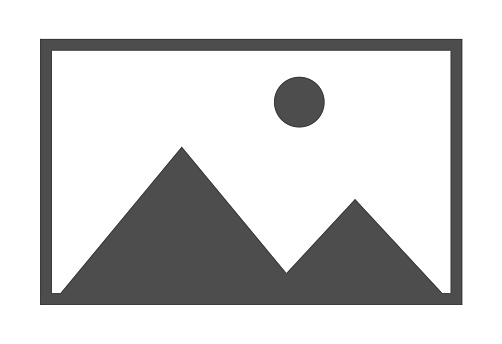
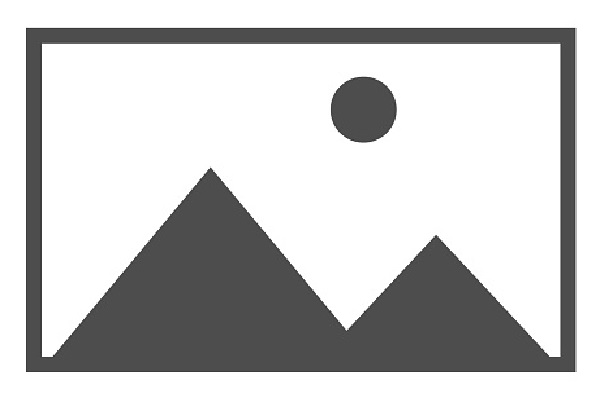
Updated Content section
Updated the list format to be tiles. fixed image sizes and made details only show on hover over the tile.

diff --git a/listMaker/myLists.js b/listMaker/myLists.js
@@ -119,6 +119,7 @@ function displayLists(list, element, listList) {
         //Event Listener for delete button.
           button.addEventListener("click",function() {
           listList.deleteList(l.id);
+          listList.loadActiveList(listList.findCurrentList().list, 1)
         });
         //Event Listener for list selection
         text.addEventListener("click",function() {
@@ -669,7 +670,7 @@ export default class myLists {
             flex1.className = "flex1"
             const addButton = document.createElement('button')
             addButton.className = "addGameButton"
-            addButton.innerHTML = "+";
+            addButton.innerHTML = "Add to List";
             addButton.id = "addToListButton"
             addButton.dataset.id = game.id
             flex1.appendChild(addButton)
@@ -693,10 +694,14 @@ export default class myLists {
             name.innerHTML = `${game.name}`
             name.className = "gameName"
             flex3.appendChild(name)
-
+            const hidden = document.createElement('div')
+            hidden.className = "listDetailsHidden"
+            const detailsName = document.createElement('p')
+            detailsName.innerHTML = `${game.name}`
+            detailsName.className = "detailsName"
+            hidden.appendChild(detailsName)
             const ul = document.createElement('ul')
-            ul.className = "listDetailsHidden"
-
+            hidden.appendChild(ul)
         
             let esrbRating
             if (game.esrb_rating === null) {
@@ -724,30 +729,25 @@ export default class myLists {
             `
             
 
-            flex3.appendChild(ul)
-            details.appendChild(flex1)
-            details.appendChild(flex3)
-            details.appendChild(flex2)
-            content.appendChild(details)
-
+            flex3.appendChild(hidden)
             
 
+            details.appendChild(flex2)
+            details.appendChild(flex1)
+            details.appendChild(flex3)
+       
+            content.appendChild(details)
+           
+
             //event listeners
-            background.addEventListener("click",function() {
-                if (ul.className === "listDetailsHidden") {
-                    ul.className = "listDetails"
-                }
-                else {
-                    ul.className = "listDetailsHidden"
-                }
+            background.addEventListener("mouseover",function() {
+                    hidden.className = "listDetails"
+                    name.className = "gameNameHidden"
             });
-            name.addEventListener("click",function() {
-                if (ul.className === "listDetailsHidden") {
-                    ul.className = "listDetails"
-                }
-                else {
-                    ul.className = "listDetailsHidden"
-                }
+
+            background.addEventListener("mouseleave",function() {
+                hidden.className = "listDetailsHidden"
+                name.className = "gameName"
             });
 
             //active list display
@@ -762,6 +762,12 @@ export default class myLists {
             document.getElementById('addAList').addEventListener("click",function() {
                 refreshGameList()
             });
-        });        
+        });   
+        const gridBottom = document.createElement('div')
+        gridBottom.className = "gridBottom"
+        content.appendChild(gridBottom)     
+        const gridBottom2 = document.createElement('div')
+        gridBottom2.className = "gridBottom"
+        content.appendChild(gridBottom2)   
     }
 }

diff --git a/listMaker/styles.css b/listMaker/styles.css
@@ -57,6 +57,8 @@ h2 {
     display: flex;
     flex-direction: row;
 }
+
+
 .listNameInput {
     border-radius: 10px;
     border: none;
@@ -185,58 +187,94 @@ button:hover {
 }
 
 .content {
+    display: grid;
+    grid-template-columns: repeat(auto-fit, minmax(320px, 1fr));
+    grid-gap: 1rem;
+    list-style-type: none;
     padding-bottom: 10px;
     overflow:auto;
-    display: block;
     flex: 8;
+    height: 110%;
+    margin-bottom: 20%;
+}
+
+.gridBottom {
+    position: relative;
+    height: 300px;
+    width: 100%;
 }
 
 .gameItem {
     background:rgb(40, 40, 40);
-    width: 97%;
     list-style-type: none;
-    display: flex;
-    flex-direction: row;
-    margin: 10px;
+    margin: 5px;
     border-radius: 5px;
 }
 
 .gameItem:hover {
-    background:rgb(55, 55, 55);
+    background:rgb(70, 70, 70);
 }
 
 .flex1 {
-    flex: 1;
+    position: relative;
+    height: 10%;
+}
+
+.flex2 {
+    position: relative;
+    overflow: hidden;
 }
 
 .flex3 {
-    flex: 10;
+    position: relative;
+
 }
-
-
-
-
 
 .thumbnail {
     padding: 5px;
     border-radius: 10px;
     vertical-align: top;
-    margin: 5px;
-    width: 140px;
-    height: 90px;
+    height: auto;
+    width: 100%;
+    object-fit:contain;
+    overflow: hidden;
 }
 
 .gameName {
-
-    font-size: 2.5em;
-
+    font-size:large;
+    text-align: center;
     border-spacing: 5em;
     padding: 5px;;
 }
 
-.listDetails {
-    margin-left: 5%;
+.gameNameHidden {
+    display: none;
+}
+
+.detailsName {
+    font-size:larger;
+    text-align: center;
     padding: 5px;
+    border-bottom-left-radius: 5px;
+    border-bottom-right-radius: 5px;
+}
+
+.listDetails {
+    width: 100%;
+    padding-left: 5px;
+    padding-right: 5px;
+    padding-bottom: 5px;
+    display: inherit;
+    z-index: 2;
+    position: absolute;
+    background:rgb(70,70, 70);
+    list-style-type: none;
+    padding: 10px;
+    border-radius: 5px;
+}
+
+.listDetails ul {
+    list-style-type: none;
 }
 
 .listDetailsHidden {
@@ -263,31 +301,28 @@ button:hover {
 .error {
     background: red;
     position: fixed;
-    height: 57px;
+    height: 50px;
     width: 20%;
     right: 0;
     top: 0;
     padding: 10px;
     z-index: 2;
-    flex: 1;
     border-radius: 5px;
     margin: 5px;
 }
 
 .inputError {
     background: red;
-    border-top: 2px solid black;
-    border-left: 1px solid black;
-    border-right:  2px solid black;
-    border-bottom:  1px solid black;
     position: fixed;
-    height: 57px;
+    height: 50px;
     width: 20%;
     right: 0;
     top: 0;
     padding: 10px;
     z-index: 2;
     font-size: .75em;
+    border-radius: 5px;
+    margin: 5px;
 }
 
 .inputErrorHidden {
@@ -332,16 +367,16 @@ h4 {
 .addGameButton{
     background-color: green;
     margin-top: 5px;
-    margin-left: 5px;
-    margin-right: 15px;
+    margin-right: 5px;
     margin-bottom: 5px;
-    width: 45px;
-    height: 45px;
-
+    margin-left: 10%;
+    width: 80%;
+    height: 20px;
+    color: black;
 }
 
 .addGameButton:hover {
-    background: rgb(88, 167, 88);
+    color: white;
 }
 
 .lists input {
@@ -401,6 +436,10 @@ h4 {
 
 .explore li, .platforms li {
     padding: 3px;
+}
+.credits {
+    margin-top: 5px;
+    font-size: smaller;
 }
 
 

diff --git a/listMaker/game.js b/listMaker/game.js
@@ -2,7 +2,14 @@ export default class Game {
     constructor(game) {
         this.id = game.id;
         this.released = game.released;
-        this.background_image = game.background_image;
+        if (game.background_image === null) {
+            this.background_image = game.background_image
+        }
+        else {
+            this.background_image = game.background_image.slice(0, 28) + 'crop/600/400/'+ game.background_image.slice(28, game.background_image.length)
+
+        }
+        
         this.metacritic = game.metacritic;
         this.playtime = game.playtime;
         this.name = game.name;

diff --git a/listMaker/index.html b/listMaker/index.html
@@ -56,6 +56,9 @@
             </div>
             <div class="activeListContents" id="activeListContents">
             </div>
+            <div>
+                <p class="credits">Built by PETER SHUMWAY</p> <a class="credits" href="https://rawg.io/apidocs" target="_blank"> using RAWG.IO</a>
+            </div>
 
         </div>
     </div>
